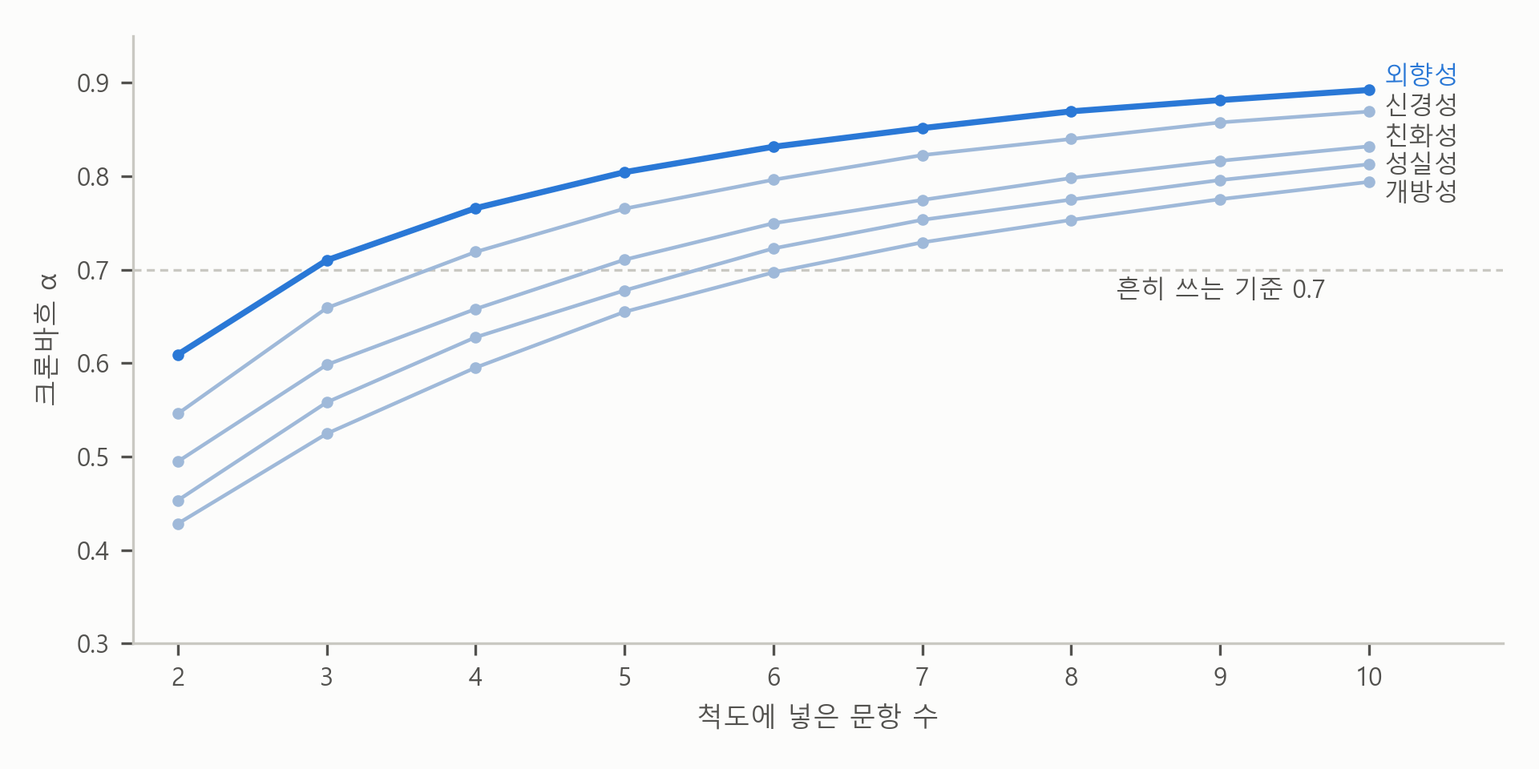
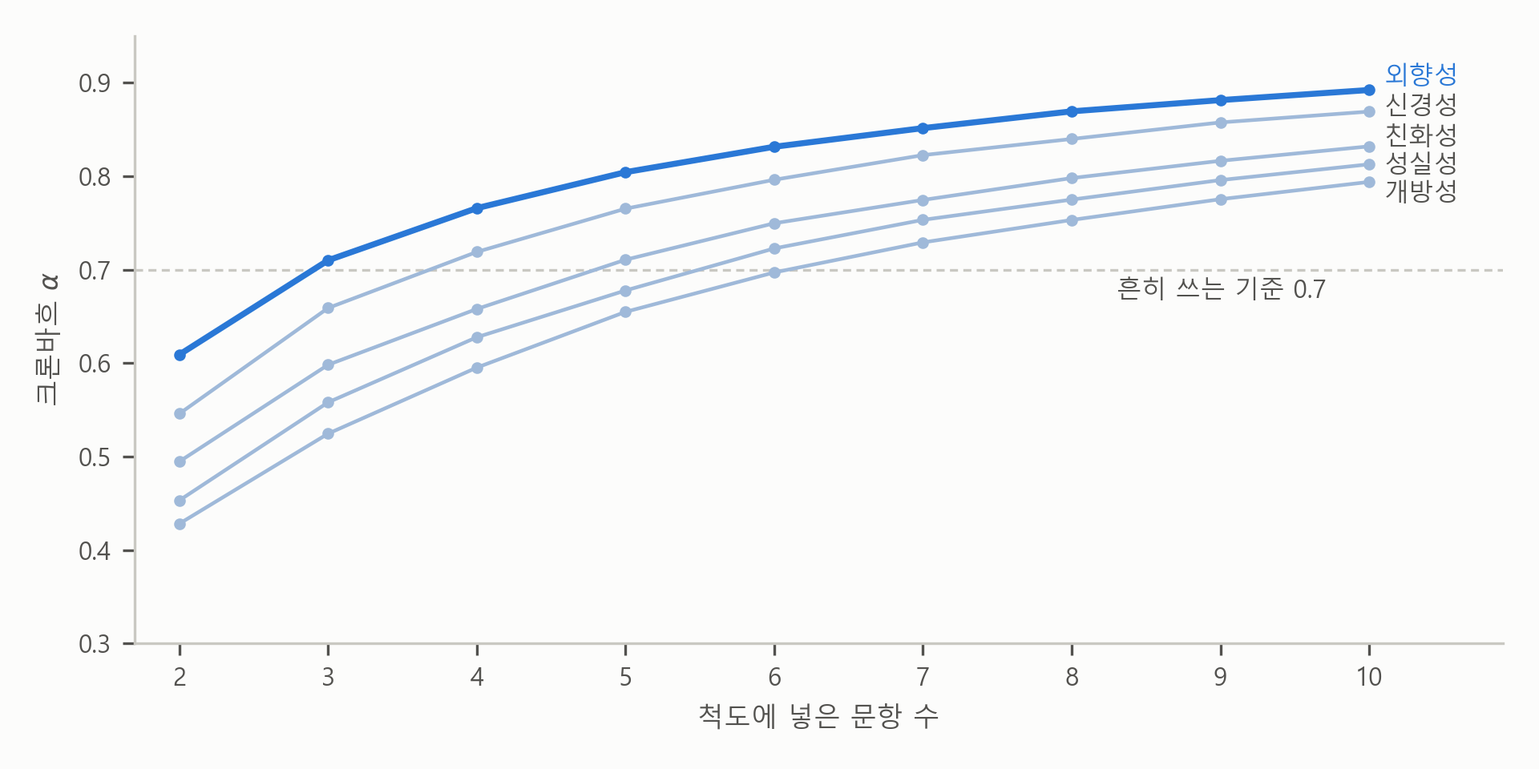
Survey measurement: typeset Cronbach's alpha as math and apply the author's review of section 1
Alpha now follows the book's rule for statistical symbols (as theta does in
the panel chapter): report, sections, section titles and the figure axis.
Section 1: English names for the five traits, the heatmap defined, Korea's
30 respondents, clearer opening questions and sample description.

diff --git a/survey-measurement/section-m3.md b/survey-measurement/section-m3.md
@@ -1,10 +1,10 @@
-# 3. 함께 움직이는가 — 크론바흐 α와 문항 수
+# 3. 함께 움직이는가 — 크론바흐 $\alpha$와 문항 수
 
 보고서의 요약은 이렇게 시작합니다.
 
-> 다섯 개의 성격 척도의 **신뢰도(크론바흐 α)는 0.79 ~ 0.89로, 흔히 쓰는 기준 0.7을 모두 넘는다**.
+> 다섯 개의 성격 척도의 **신뢰도(크론바흐 $\alpha$)는 0.79 ~ 0.89로, 흔히 쓰는 기준 0.7을 모두 넘는다**.
 
-해석에는 "외향성 0.89는 외향성 문항 하나에 외향적으로 답한 사람이 다른 외향성 문항에도 대개 외향적으로 답했다는 뜻이다"라는 설명이 붙어 있습니다. 설문 연구의 보고서에서 가장 자주 만나는 숫자가 이 크론바흐 α입니다. 미리 답부터 말하면, **크론바흐 α는 척도의 문항들이 얼마나 함께 움직이는지를 나타내는 숫자로, 1에 가까울수록 함께 움직인다는 뜻이고, 문항이 같은 것을 물을수록, 그리고 문항이 많을수록 커집니다.** 이 절에서는 α가 무엇을 계산한 숫자인지를 두 문항의 예로 먼저 보고, 문항 수에 따라 α가 어떻게 달라지는지, 기준 0.7은 어디서 왔는지, 그리고 α가 높아도 알 수 없는 것이 무엇인지를 차례로 봅니다.
+해석에는 "외향성 0.89는 외향성 문항 하나에 외향적으로 답한 사람이 다른 외향성 문항에도 대개 외향적으로 답했다는 뜻이다"라는 설명이 붙어 있습니다. 설문 연구의 보고서에서 가장 자주 만나는 숫자가 이 크론바흐 $\alpha$입니다. 미리 답부터 말하면, **크론바흐 $\alpha$는 척도의 문항들이 얼마나 함께 움직이는지를 나타내는 숫자로, 1에 가까울수록 함께 움직인다는 뜻이고, 문항이 같은 것을 물을수록, 그리고 문항이 많을수록 커집니다.** 이 절에서는 $\alpha$가 무엇을 계산한 숫자인지를 두 문항의 예로 먼저 보고, 문항 수에 따라 $\alpha$가 어떻게 달라지는지, 기준 0.7은 어디서 왔는지, 그리고 $\alpha$가 높아도 알 수 없는 것이 무엇인지를 차례로 봅니다.
 
 ## 같은 실력을 묻는 문제라면 함께 움직인다
 
@@ -12,7 +12,7 @@
 
 그런데 수학 시험지에 엉뚱하게 역사 문제가 몇 개 섞여 있다면 어떨까요? 역사 문제를 맞히는지는 수학 실력과 별 상관이 없으니, 역사 문제는 수학 문제들과 따로 움직입니다. 수학 문제와 역사 문제를 모두 더한 점수는 수학 실력도 역사 실력도 제대로 보여 주지 못합니다.
 
-설문 문항도 같습니다. 외향성 문항 10개가 모두 외향성을 묻는다면, 외향적인 사람은 대부분의 문항에 외향적으로 답하고 내향적인 사람은 대부분 내향적으로 답할 것입니다. 앞 절의 표 2-1에서 E1에 높게 답한 사람이 E3에도 높게 답한 것이 그 모습이었습니다. 크론바흐 α는 이렇게 **척도의 문항들이 얼마나 함께 움직이는지**를 숫자 하나로 요약합니다.
+설문 문항도 같습니다. 외향성 문항 10개가 모두 외향성을 묻는다면, 외향적인 사람은 대부분의 문항에 외향적으로 답하고 내향적인 사람은 대부분 내향적으로 답할 것입니다. 앞 절의 표 2-1에서 E1에 높게 답한 사람이 E3에도 높게 답한 것이 그 모습이었습니다. 크론바흐 $\alpha$는 이렇게 **척도의 문항들이 얼마나 함께 움직이는지**를 숫자 하나로 요약합니다.
 
 ## 두 문항을 더해 보면 — 합이 얼마나 넓게 퍼지나
 
@@ -24,26 +24,26 @@
 
 그림에서 보듯이 왼쪽 패널의 합은 2부터 10까지 넓게 퍼져 있습니다. 두 문항이 함께 움직이므로, E1에 5를 준 사람은 E3에도 높게 답해 합이 9나 10이 되기 쉽고, E1에 1을 준 사람은 E3에도 낮게 답해 합이 2나 3이 되기 쉽습니다. 높은 사람은 더 높게, 낮은 사람은 더 낮게 쌓입니다. 오른쪽 패널의 합은 5와 6 근처에 몰려 있습니다. E1에 5를 준 사람은 E2에 낮게 답하니 합이 가운데로 돌아오고, E1에 1을 준 사람은 E2에 높게 답하니 역시 가운데로 돌아옵니다. 두 문항이 서로 상쇄합니다. 앞 절에서 역문항을 뒤집지 않았을 때 모두가 보통 사람이 된 것과 같은 일입니다.
 
-그렇다면 비교의 기준은 무엇일까요? 두 문항이 서로 아무 관계 없이 따로 움직인다면, 합은 문항 하나하나가 퍼진 만큼을 더한 정도로만 퍼집니다. 함께 움직이면 그보다 넓게 퍼지고, 서로 거꾸로 움직이면 그보다 좁게 퍼집니다. **크론바흐 α**(Cronbach's alpha)는 바로 이 비교입니다. 합이 퍼진 정도를 문항들이 각자 퍼진 정도와 비교해서, 합이 얼마나 더 넓게 퍼졌는지를 숫자 하나로 나타냅니다.
+그렇다면 비교의 기준은 무엇일까요? 두 문항이 서로 아무 관계 없이 따로 움직인다면, 합은 문항 하나하나가 퍼진 만큼을 더한 정도로만 퍼집니다. 함께 움직이면 그보다 넓게 퍼지고, 서로 거꾸로 움직이면 그보다 좁게 퍼집니다. **크론바흐 $\alpha$**(Cronbach's alpha)는 바로 이 비교입니다. 합이 퍼진 정도를 문항들이 각자 퍼진 정도와 비교해서, 합이 얼마나 더 넓게 퍼졌는지를 숫자 하나로 나타냅니다.
 
-- 문항들이 서로 아무 관계 없이 따로 움직이면 α는 0입니다.
-- 문항들이 완벽하게 함께 움직여 누구나 모든 문항에 같은 답을 하면 α는 1입니다.
-- 문항들이 서로 거꾸로 움직이면 합이 오히려 좁게 퍼지고, α는 0보다 작은 음수가 됩니다.
+- 문항들이 서로 아무 관계 없이 따로 움직이면 $\alpha$는 0입니다.
+- 문항들이 완벽하게 함께 움직여 누구나 모든 문항에 같은 답을 하면 $\alpha$는 1입니다.
+- 문항들이 서로 거꾸로 움직이면 합이 오히려 좁게 퍼지고, $\alpha$는 0보다 작은 음수가 됩니다.
 
-그림 3-1의 두 경우를 계산하면 왼쪽(E1 + E3)은 0.64, 오른쪽(E1 + 뒤집지 않은 E2)은 −1.45입니다. E2를 뒤집어 더하면 0.59로 왼쪽과 비슷해집니다. 문항들이 같은 것을 일관되게 측정하는 정도를 **신뢰도**(reliability)라고 부르고, 크론바흐 α는 신뢰도를 나타내는 가장 흔한 숫자입니다. 이 이름은 이것을 정리한 교육심리학자 리 크론바흐(Lee Cronbach)의 이름에서 왔습니다.
+그림 3-1의 두 경우를 계산하면 왼쪽(E1 + E3)은 0.64, 오른쪽(E1 + 뒤집지 않은 E2)은 −1.45입니다. E2를 뒤집어 더하면 0.59로 왼쪽과 비슷해집니다. 문항들이 같은 것을 일관되게 측정하는 정도를 **신뢰도**(reliability)라고 부르고, 크론바흐 $\alpha$는 신뢰도를 나타내는 가장 흔한 숫자입니다. 이 이름은 이것을 정리한 교육심리학자 리 크론바흐(Lee Cronbach)의 이름에서 왔습니다.
 
 > **참고:**
-> 크론바흐 α의 식은 이렇습니다. $k$는 문항 수이고, 분산은 표준편차의 제곱으로 흩어짐의 크기를 나타냅니다.
+> 크론바흐 $\alpha$의 식은 이렇습니다. $k$는 문항 수이고, 분산은 표준편차의 제곱으로 흩어짐의 크기를 나타냅니다.
 >
 > $$\alpha = \frac{k}{k-1} \left( 1 - \frac{\text{문항마다의 분산을 더한 값}}{\text{합의 분산}} \right)$$
 >
-> 문항이 따로 움직이면 합의 분산이 문항 분산의 합과 같아져 괄호 안이 0이 되고, 함께 움직이면 합의 분산이 커져 괄호 안이 1에 가까워집니다. E1과 E3은 문항 분산의 합이 3.05, 합의 분산이 4.49라서 α = 2 × (1 − 3.05 / 4.49)이고, 계산해 보면 0.64입니다. 앞의 $k / (k-1)$은 완벽하게 함께 움직일 때 α가 꼭 1이 되도록 맞춰 주는 장치입니다.
+> 문항이 따로 움직이면 합의 분산이 문항 분산의 합과 같아져 괄호 안이 0이 되고, 함께 움직이면 합의 분산이 커져 괄호 안이 1에 가까워집니다. E1과 E3은 문항 분산의 합이 3.05, 합의 분산이 4.49라서 $\alpha$ = 2 × (1 − 3.05 / 4.49)이고, 계산해 보면 0.64입니다. 앞의 $k / (k-1)$은 완벽하게 함께 움직일 때 $\alpha$가 꼭 1이 되도록 맞춰 주는 장치입니다.
 
-## 뒤집지 않으면 α가 알려 준다
+## 뒤집지 않으면 $\alpha$가 알려 준다
 
-앞 절에서 역문항을 뒤집지 않으면 외향적인 사람과 내향적인 사람의 점수가 거의 같아지는데도, 평균만 보아서는 그 실수가 드러나지 않는다고 했습니다. 크론바흐 α는 그 실수를 숫자로 보여 줍니다. 표 3-1은 다섯 척도의 α를 역문항을 뒤집기 전과 뒤로 나란히 놓은 것입니다.
+앞 절에서 역문항을 뒤집지 않으면 외향적인 사람과 내향적인 사람의 점수가 거의 같아지는데도, 평균만 보아서는 그 실수가 드러나지 않는다고 했습니다. 크론바흐 $\alpha$는 그 실수를 숫자로 보여 줍니다. 표 3-1은 다섯 척도의 $\alpha$를 역문항을 뒤집기 전과 뒤로 나란히 놓은 것입니다.
 
-**표 3-1.** 역문항을 뒤집기 전과 뒤의 크론바흐 α
+**표 3-1.** 역문항을 뒤집기 전과 뒤의 크론바흐 $\alpha$
 
 | 척도 | 역문항 | 뒤집기 전 | 뒤집은 뒤 |
 |---|---|---|---|
@@ -55,43 +55,43 @@
 
 주: 50문항 모두 답한 19,718명. 척도마다 10문항.
 
-표에서 보듯이 뒤집기 전의 α는 외향성 −0.40, 친화성 −0.03처럼 0 근처이거나 음수입니다. 역문항이 정문항과 거꾸로 움직이니 합이 좁게 퍼지고, α가 그것을 그대로 보여 준 것입니다. 역문항이 절반인 외향성이 가장 낮습니다. α가 0 근처나 음수로 나오면, 문항이 엉뚱한 것을 묻고 있거나 역문항을 뒤집지 않은 것을 먼저 의심해 볼 만합니다.
+표에서 보듯이 뒤집기 전의 $\alpha$는 외향성 −0.40, 친화성 −0.03처럼 0 근처이거나 음수입니다. 역문항이 정문항과 거꾸로 움직이니 합이 좁게 퍼지고, $\alpha$가 그것을 그대로 보여 준 것입니다. 역문항이 절반인 외향성이 가장 낮습니다. $\alpha$가 0 근처나 음수로 나오면, 문항이 엉뚱한 것을 묻고 있거나 역문항을 뒤집지 않은 것을 먼저 의심해 볼 만합니다.
 
-그런데 신경성을 보면 조심할 점이 하나 있습니다. 역문항이 두 개뿐이라, 뒤집지 않아도 α가 0.71로 기준 0.7을 넘습니다. 기준을 넘었는지만 확인하면 이 실수를 놓칩니다. 역문항을 제대로 뒤집었는지는 α가 아니라 채점 키로 확인해야 합니다.
+그런데 신경성을 보면 조심할 점이 하나 있습니다. 역문항이 두 개뿐이라, 뒤집지 않아도 $\alpha$가 0.71로 기준 0.7을 넘습니다. 기준을 넘었는지만 확인하면 이 실수를 놓칩니다. 역문항을 제대로 뒤집었는지는 $\alpha$가 아니라 채점 키로 확인해야 합니다.
 
 ## 문항이 많을수록 — 운이 상쇄된다
 
-크론바흐 α를 키우는 것은 문항끼리 함께 움직이는 정도만이 아닙니다. 문항의 수도 α를 키웁니다. 그림 3-2는 다섯 척도마다 10문항 가운데 몇 개만 골라 척도를 만들었을 때의 α입니다. 같은 수의 문항을 고르는 방법이 여러 가지라, 무작위로 300번 골라 평균했습니다.
+크론바흐 $\alpha$를 키우는 것은 문항끼리 함께 움직이는 정도만이 아닙니다. 문항의 수도 $\alpha$를 키웁니다. 그림 3-2는 다섯 척도마다 10문항 가운데 몇 개만 골라 척도를 만들었을 때의 $\alpha$입니다. 같은 수의 문항을 고르는 방법이 여러 가지라, 무작위로 300번 골라 평균했습니다.
 
 ![문항 수와 크론바흐 α](fig_m3_2_items_alpha.png)
 
-**그림 3-2.** 척도에 넣은 문항 수와 크론바흐 α. 척도마다 10문항 가운데 그 수만큼 무작위로 300번 골라 평균했다(10문항은 보고서의 α).
+**그림 3-2.** 척도에 넣은 문항 수와 크론바흐 $\alpha$. 척도마다 10문항 가운데 그 수만큼 무작위로 300번 골라 평균했다(10문항은 보고서의 $\alpha$).
 
-그림에서 보듯이 다섯 선이 모두 오른쪽으로 갈수록 올라갑니다. 외향성은 문항 2개로 만들면 α가 0.61이고, 3개면 0.71, 5개면 0.80, 10개면 0.89입니다. 같은 외향성 문항인데 개수만 늘려도 α가 커집니다.
+그림에서 보듯이 다섯 선이 모두 오른쪽으로 갈수록 올라갑니다. 외향성은 문항 2개로 만들면 $\alpha$가 0.61이고, 3개면 0.71, 5개면 0.80, 10개면 0.89입니다. 같은 외향성 문항인데 개수만 늘려도 $\alpha$가 커집니다.
 
 시험으로 생각하면 자연스럽습니다. 문제 하나에는 찍어서 맞히거나 실수로 틀리는 운이 들어 있습니다. 문제가 두 개면 두 문제의 운이 한쪽으로 몰릴 수도 있지만, 열 개가 되면 운이 이 문제에서는 득이 되고 저 문제에서는 손해가 되어 서로 상쇄됩니다. 운이 상쇄될수록 점수는 실력을 더 일관되게 보여 줍니다. 설문 문항도 문장을 오해하거나 그날 기분에 따라 답한 몫이 문항마다 다르게 들어 있어서, 문항이 많을수록 그 몫이 서로 상쇄됩니다.
 
-그림에서 하나 더 볼 것은 선이 올라가는 폭이 점점 줄어든다는 점입니다. 외향성은 2개에서 3개로 늘릴 때 0.10이 오르지만, 9개에서 10개로 늘릴 때는 0.01이 오릅니다. 문항을 늘리면 α는 오르지만, 설문이 길어지면 답하는 사람이 지쳐 대충 답하기 쉽다고 흔히 말합니다. 그래서 설문을 만드는 사람은 문항 수와 α 사이에서 적당한 선을 찾습니다.
+그림에서 하나 더 볼 것은 선이 올라가는 폭이 점점 줄어든다는 점입니다. 외향성은 2개에서 3개로 늘릴 때 0.10이 오르지만, 9개에서 10개로 늘릴 때는 0.01이 오릅니다. 문항을 늘리면 $\alpha$는 오르지만, 설문이 길어지면 답하는 사람이 지쳐 대충 답하기 쉽다고 흔히 말합니다. 그래서 설문을 만드는 사람은 문항 수와 $\alpha$ 사이에서 적당한 선을 찾습니다.
 
-반대로 이 그림은 문항이 적은 척도의 α가 낮게 나오기 쉽다는 것도 보여 줍니다. 개방성은 5문항이면 0.65로 기준 0.7에 못 미칩니다. 문항 2 ~ 3개짜리 척도의 α가 0.6대라면 문항이 나빠서라기보다 문항이 적어서일 수 있습니다. 거꾸로 α가 아주 높을 때도 한 번 생각해 볼 것이 있습니다. 문항이 많기만 해도 α는 오르고, 거의 같은 문장을 말만 바꿔 여러 번 물어도 α는 오릅니다. 그런 척도는 일관되게 답해지지만, 개념의 좁은 한 면만 되풀이해 묻고 있을 수 있습니다.
+반대로 이 그림은 문항이 적은 척도의 $\alpha$가 낮게 나오기 쉽다는 것도 보여 줍니다. 개방성은 5문항이면 0.65로 기준 0.7에 못 미칩니다. 문항 2 ~ 3개짜리 척도의 $\alpha$가 0.6대라면 문항이 나빠서라기보다 문항이 적어서일 수 있습니다. 거꾸로 $\alpha$가 아주 높을 때도 한 번 생각해 볼 것이 있습니다. 문항이 많기만 해도 $\alpha$는 오르고, 거의 같은 문장을 말만 바꿔 여러 번 물어도 $\alpha$는 오릅니다. 그런 척도는 일관되게 답해지지만, 개념의 좁은 한 면만 되풀이해 묻고 있을 수 있습니다.
 
 ## 기준 0.7은 어디서 왔나
 
-보고서는 α가 "흔히 쓰는 기준 0.7"을 넘는다고 썼습니다. 0.7은 설문 연구에서 가장 널리 쓰이는 기준이지만, 0.7에서 무언가가 갑자기 바뀌는 이론적인 경계가 있는 것은 아닙니다. 관행입니다.
+보고서는 $\alpha$가 "흔히 쓰는 기준 0.7"을 넘는다고 썼습니다. 0.7은 설문 연구에서 가장 널리 쓰이는 기준이지만, 0.7에서 무언가가 갑자기 바뀌는 이론적인 경계가 있는 것은 아닙니다. 관행입니다.
 
 이 기준의 출처로는 흔히 심리측정학자 넌널리(Nunnally)의 1978년 교과서가 인용됩니다. 그런데 이 교과서가 말한 것은 연구의 초기 단계라면 0.7 정도로도 충분하다는 것이었고, 모든 연구가 넘어야 할 최소 기준이라는 뜻은 아니었다는 지적이 있습니다(Lance 외, 2006)[^lance]. 출처의 말이 옮겨지는 동안 "0.7을 넘으면 된다"로 굳은 셈입니다.
 
-그러니 보고서의 α를 볼 때는 이렇게 생각하면 됩니다. 0.7을 넘었다는 것은 문항들이 대체로 함께 움직인다는 뜻이지, 측정에 문제가 없다는 보증은 아닙니다. 0.7에 조금 못 미친다고 해서 척도를 버릴 일도 아닙니다. 문항이 몇 개인지, 다른 연구에서 같은 척도의 α가 얼마였는지를 함께 봅니다. 이 장의 다섯 척도는 문항이 10개씩이고 α가 0.79 ~ 0.89이니, 문항들이 꽤 일관되게 답해졌다고 말할 수 있습니다.
+그러니 보고서의 $\alpha$를 볼 때는 이렇게 생각하면 됩니다. 0.7을 넘었다는 것은 문항들이 대체로 함께 움직인다는 뜻이지, 측정에 문제가 없다는 보증은 아닙니다. 0.7에 조금 못 미친다고 해서 척도를 버릴 일도 아닙니다. 문항이 몇 개인지, 다른 연구에서 같은 척도의 $\alpha$가 얼마였는지를 함께 봅니다. 이 장의 다섯 척도는 문항이 10개씩이고 $\alpha$가 0.79 ~ 0.89이니, 문항들이 꽤 일관되게 답해졌다고 말할 수 있습니다.
 
 [^lance]: Lance, C. E., Butts, M. M., & Michels, L. C. (2006). The sources of four commonly reported cutoff criteria: What did they really say? *Organizational Research Methods*, 9(2), 202–220. 신뢰도 0.70 기준의 출처로 인용되는 Nunnally (1978) *Psychometric Theory*(2판)는 연구의 초기 단계에서는 0.70 이상이면 충분하다고 썼다(245쪽).
 
 ## 문항 하나를 빼면
 
-보고서에는 없지만, 설문 분석을 맡기면 AI가 문항마다 "그 문항을 빼면 α가 얼마가 되는가"를 함께 보여 주는 경우가 많습니다. 다른 문항들과 잘 함께 움직이지 않는 문항이 있다면, 그 문항을 빼면 α가 오히려 오르기 때문입니다. 이 장의 50문항 가운데 빼면 α가 오르는 문항은 네 개였고, 표 3-2가 그 네 문항입니다.
+보고서에는 없지만, 설문 분석을 맡기면 AI가 문항마다 "그 문항을 빼면 $\alpha$가 얼마가 되는가"를 함께 보여 주는 경우가 많습니다. 다른 문항들과 잘 함께 움직이지 않는 문항이 있다면, 그 문항을 빼면 $\alpha$가 오히려 오르기 때문입니다. 이 장의 50문항 가운데 빼면 $\alpha$가 오르는 문항은 네 개였고, 표 3-2가 그 네 문항입니다.
 
-**표 3-2.** 빼면 크론바흐 α가 오르는 문항
+**표 3-2.** 빼면 크론바흐 $\alpha$가 오르는 문항
 
-| 척도 | 문항 | 10문항의 α | 그 문항을 뺀 9문항의 α |
+| 척도 | 문항 | 10문항의 $\alpha$ | 그 문항을 뺀 9문항의 $\alpha$ |
 |---|---|---|---|
 | 신경성 | N4 "나는 기분이 가라앉는 일이 드물다" | 0.869 | 0.875 |
 | 친화성 | A1 "나는 다른 사람을 별로 걱정하지 않는다" | 0.832 | 0.833 |
@@ -100,7 +100,7 @@
 
 주: 50문항 모두 답한 19,718명. A1, A3, N4는 역문항(뒤집은 답으로 계산).
 
-표에서 보듯이 네 문항 모두 빼도 α는 0.001 ~ 0.006 오를 뿐입니다. N4와 O9는 다음 절의 요인분석에서도 약한 문항으로 나옵니다. 이 정도 차이라면 문항을 뺄 까닭이 없습니다. 이미 널리 쓰이는 척도에서 문항을 빼면 척도의 뜻이 조금 달라지고, 같은 척도를 쓴 다른 연구와 숫자를 비교하기도 어려워집니다. 문항을 빼는 것은 α가 크게 오르고, 그 문항의 문장에도 문제가 있어 보일 때(예를 들어 번역이 어색하거나 응답자가 다르게 이해했을 때) 생각할 일입니다.
+표에서 보듯이 네 문항 모두 빼도 $\alpha$는 0.001 ~ 0.006 오를 뿐입니다. N4와 O9는 다음 절의 요인분석에서도 약한 문항으로 나옵니다. 이 정도 차이라면 문항을 뺄 까닭이 없습니다. 이미 널리 쓰이는 척도에서 문항을 빼면 척도의 뜻이 조금 달라지고, 같은 척도를 쓴 다른 연구와 숫자를 비교하기도 어려워집니다. 문항을 빼는 것은 $\alpha$가 크게 오르고, 그 문항의 문장에도 문제가 있어 보일 때(예를 들어 번역이 어색하거나 응답자가 다르게 이해했을 때) 생각할 일입니다.
 
 같은 목적으로 쓰는 숫자가 하나 더 있습니다. 한 문항과 나머지 문항들의 합이 얼마나 함께 움직이는지를 나타내는 **문항-나머지 상관**(corrected item-total correlation)입니다. 이 숫자가 유난히 낮은 문항은 다른 문항들과 따로 움직이는 문항이고, 음수라면 역문항을 뒤집지 않았을 가능성이 큽니다.
 
@@ -112,12 +112,12 @@
 
 > 두 결과는 응답자들이 같은 성격을 묻는 문항들에 일관되게 답했다는 뜻이다. 척도가 실제 성격을 맞게 측정하는지는 이 분석으로 알 수 없다.
 
-늘 2kg 더 나오는 체중계를 생각해 보세요. 같은 사람이 몇 번을 올라가도 매번 같은 숫자가 나오니 일관됩니다. 하지만 그 숫자는 실제 몸무게가 아닙니다. 일관되게 측정하는 것과 맞는 것을 측정하는 것은 다른 일입니다. 크론바흐 α가 말해 주는 것은 앞의 것뿐입니다. 측정하려던 것을 제대로 측정하는지를 **타당도**(validity)라고 부릅니다.
+늘 2kg 더 나오는 체중계를 생각해 보세요. 같은 사람이 몇 번을 올라가도 매번 같은 숫자가 나오니 일관됩니다. 하지만 그 숫자는 실제 몸무게가 아닙니다. 일관되게 측정하는 것과 맞는 것을 측정하는 것은 다른 일입니다. 크론바흐 $\alpha$가 말해 주는 것은 앞의 것뿐입니다. 측정하려던 것을 제대로 측정하는지를 **타당도**(validity)라고 부릅니다.
 
 외향성 척도의 타당도를 따지려면 문항들끼리의 관계가 아니라 척도 밖의 무언가와 비교해야 합니다. 외향성 점수가 높은 사람이 실제로 모임에 자주 나가는지, 친구가 평가한 외향성과 비슷한지, 이미 타당도가 확인된 다른 외향성 검사와 점수가 비슷한지 같은 것입니다. 이 장의 자료에는 그런 변수가 없어서, 보고서는 한계의 둘째 줄에 "외향성 점수가 높은 사람이 실제로도 외향적인지는 이 자료로 알 수 없다"고 적었습니다. 여러분이 설문 연구를 할 때 이미 널리 쓰이는 척도를 가져오면 좋은 이유가 여기에도 있습니다. 그런 척도는 다른 연구들이 타당도를 이미 확인해 둔 경우가 많습니다.
 
 > **요약 — 이 절의 물음과 답**
 >
-> - **크론바흐 α는 무엇을 계산한 숫자인가?** 척도의 문항들이 얼마나 함께 움직이는지를 나타내는 신뢰도로, 1에 가까울수록 함께 움직인다는 뜻이다. 문항들의 합이, 문항이 따로 움직일 때보다 얼마나 더 넓게 퍼지는지를 본다. 역문항을 뒤집지 않으면 합이 좁게 몰려 α가 0 근처나 음수가 된다.
-> - **왜 문항이 많을수록 α가 커지나?** 문항마다 들어 있는 운이 문항이 많을수록 서로 상쇄되기 때문이다. 외향성은 2문항이면 0.61, 10문항이면 0.89다. 그래서 문항이 적은 척도는 α가 낮게 나오기 쉽다.
-> - **α가 0.7을 넘으면 측정이 잘된 것인가?** 0.7은 관행일 뿐이고, α가 말해 주는 것은 응답자들이 문항들에 일관되게 답했다는 것까지다. 척도가 측정하려던 것을 맞게 측정하는지(타당도)는 척도 밖의 자료와 비교해야 알 수 있다.
+> - **크론바흐 $\alpha$는 무엇을 계산한 숫자인가?** 척도의 문항들이 얼마나 함께 움직이는지를 나타내는 신뢰도로, 1에 가까울수록 함께 움직인다는 뜻이다. 문항들의 합이, 문항이 따로 움직일 때보다 얼마나 더 넓게 퍼지는지를 본다. 역문항을 뒤집지 않으면 합이 좁게 몰려 $\alpha$가 0 근처나 음수가 된다.
+> - **왜 문항이 많을수록 $\alpha$가 커지나?** 문항마다 들어 있는 운이 문항이 많을수록 서로 상쇄되기 때문이다. 외향성은 2문항이면 0.61, 10문항이면 0.89다. 그래서 문항이 적은 척도는 $\alpha$가 낮게 나오기 쉽다.
+> - **$\alpha$가 0.7을 넘으면 측정이 잘된 것인가?** 0.7은 관행일 뿐이고, $\alpha$가 말해 주는 것은 응답자들이 문항들에 일관되게 답했다는 것까지다. 척도가 측정하려던 것을 맞게 측정하는지(타당도)는 척도 밖의 자료와 비교해야 알 수 있다.

diff --git a/survey-measurement/section-m1.md b/survey-measurement/section-m1.md
@@ -1,14 +1,14 @@
 # 1. 보고서 — 성격 검사 50문항은 다섯 성격을 일관되게 측정하나
 
-이번 장의 주제는 **설문으로 측정하기**입니다. 만족도, 외향성, 직무 몰입, 브랜드 신뢰처럼 자를 대거나 개수를 셀 수 없는 개념을 설문 문항 여러 개로 측정하고, 그 측정을 믿을 수 있는지 확인하는 방법입니다. 연구 논문이나 수업 과제로 설문조사를 하는 학생이 많습니다. 경영학, 심리학, 사회학, 교육학의 설문 연구는 대개 이 단계를 거친 뒤에 회귀분석으로 넘어갑니다. 기업도 같은 일을 합니다. 고객 만족도 조사, 직원 몰입도 조사, 입사 지원자의 인성 검사가 모두 문항 여러 개로 보이지 않는 것을 측정합니다. 이런 연구의 보고서에는 흔히 "크론바흐 α = 0.87", "요인 적재값 0.4 이상" 같은 표현이 나옵니다.
+이번 장의 주제는 **설문으로 측정하기**입니다. 만족도, 외향성, 직무 몰입, 브랜드 신뢰처럼 자를 대거나 개수를 셀 수 없는 개념을 설문 문항 여러 개로 측정하고, 그 측정을 믿을 수 있는지 확인하는 방법입니다. 연구 논문이나 수업 과제로 설문조사를 하는 학생이 많습니다. 경영학, 심리학, 사회학, 교육학의 설문 연구는 대개 이 단계를 거친 뒤에 회귀분석으로 넘어갑니다. 기업도 같은 일을 합니다. 고객 만족도 조사, 직원 몰입도 조사, 입사 지원자의 인성 검사가 모두 문항 여러 개로 보이지 않는 것을 측정합니다. 이런 연구의 보고서에는 흔히 "크론바흐 $\alpha$ = 0.87", "요인 적재값 0.4 이상" 같은 표현이 나옵니다.
 
-다른 장은 한 변수가 다른 변수와 어떤 관계인지를 물었습니다. 이번 장은 그 앞 단계를 묻습니다. 회귀식에 넣을 변수 하나를 문항 여러 개로 어떻게 만드는가, 그렇게 만든 변수를 믿어도 되는가 하는 질문입니다. 이번 장의 예시는 성격 검사입니다. 문항 10개의 답으로 한 사람의 외향성을 측정하는 예입니다.
+이번 장이 묻는 것은 두 가지입니다. 설문 문항 여러 개로 변수 하나를 어떻게 만드는가, 그리고 그렇게 만든 변수를 믿어도 되는가입니다. 이번 장의 예시는 성격 검사입니다. 문항 10개의 답으로 한 사람의 외향성을 측정하는 예입니다.
 
 ## 데이터 — 온라인 성격 검사 19,718명
 
 자료는 Open Psychometrics Project라는 사이트의 공개 원자료입니다. 이 사이트는 누구나 무료로 해 볼 수 있는 성격 검사를 운영하면서, 응답자의 동의를 받아 답을 연구용으로 공개해 왔습니다. 이번 장의 자료는 2012년 무렵 그 사이트의 성격 검사에 답한 사람들의 기록이고, 사이트의 원자료 목록(openpsychometrics.org/_rawdata/)에서 BIG5.zip이라는 파일로 받을 수 있습니다. 2026년 10월 17일에 받았습니다. 이 자료에는 재배포를 허락하는 명시적인 이용 조건이 없어서, 이 책의 사이트에서는 파일을 함께 제공하지 않습니다. 원 사이트에서 직접 받으면 되고, 이 장 끝의 직접 해 보기 노트북도 원 사이트에서 바로 읽어 옵니다. 내려받는 일도 AI에게 부탁할 수 있습니다.
 
-검사는 성격을 다섯 가지로 나눠 측정합니다. 외향성, 신경성(걱정이나 불안을 쉽게 느끼는 정도), 친화성, 성실성, 개방성(새로운 생각과 경험을 좋아하는 정도)입니다. 심리학에서 흔히 쓰는 이 다섯 가지 구분을 **빅 파이브**(Big Five)라고 부릅니다. 문항은 IPIP(International Personality Item Pool)라는, 누구나 쓸 수 있게 공개된 문항 모음에서 왔습니다. 성격마다 10문항, 모두 50문항입니다. 표 1-1은 외향성의 10문항입니다(원래는 영어 문장이고, 우리말 번역은 이 책이 했습니다).
+검사는 성격을 다섯 가지로 나눠 측정합니다. 외향성(extraversion), 신경성(neuroticism), 친화성(agreeableness), 성실성(conscientiousness), 개방성(openness)입니다. 심리학에서 흔히 쓰는 이 다섯 가지 구분을 **빅 파이브**(Big Five)라고 부릅니다. 신경성은 걱정이나 불안을 쉽게 느끼는 정도이고, 개방성은 새로운 생각과 경험을 좋아하는 정도입니다. 문항은 IPIP(International Personality Item Pool)라는, 누구나 쓸 수 있게 공개된 문항 모음에서 왔습니다. 성격마다 10문항, 모두 50문항입니다. 50문항을 모두 싣지는 않고, 표 1-1에 외향성의 10문항만 예로 보입니다(원래는 영어 문장이고, 우리말 번역은 이 책이 했습니다). 50문항 전체는 이 장 끝의 직접 해 보기 노트북에 있습니다.
 
 **표 1-1.** 외향성 10문항
 
@@ -25,24 +25,24 @@
 | E9 | 나는 관심의 한가운데에 있어도 괜찮다. |
 | E10 | 나는 낯선 사람 앞에서 조용하다. |
 
-응답자는 문항마다 자기에게 얼마나 맞는지를 1부터 5까지의 숫자로 답했습니다. 1은 "동의하지 않음", 3은 "보통", 5는 "동의"입니다. 이렇게 문장 하나를 주고 동의하는 정도를 몇 단계로 고르게 하는 방식을 흔히 **리커트 척도**(Likert scale)라고 부릅니다. 이 방식을 처음 쓴 심리학자의 이름을 땄습니다. 5점이나 7점이 가장 흔하고, 여러분이 받아 본 설문의 "전혀 그렇지 않다 ~ 매우 그렇다"도 리커트 척도입니다.
+응답자는 문항마다 자기에게 얼마나 맞는지를 1부터 5까지의 숫자로 답했습니다. 1은 "동의하지 않음", 3은 "보통", 5는 "동의"입니다. 이렇게 문장 하나를 주고 동의하는 정도를 몇 단계로 고르게 하는 방식을 흔히 **리커트 척도**(Likert scale)라고 부릅니다. 우리말 설문에서 자주 보는 "전혀 그렇지 않다, 그렇지 않다, 보통이다, 그렇다, 매우 그렇다"의 다섯 칸이 바로 이 방식입니다. 이름은 이 방식을 처음 쓴 심리학자에게서 왔고, 5점이나 7점이 가장 흔합니다.
 
-표를 천천히 읽어 보면 이상한 점이 하나 보입니다. E1, E3, E5는 외향적인 사람이 "동의"할 문장인데, E2, E4, E6은 거꾸로 내향적인 사람이 "동의"할 문장입니다. 같은 외향성을 측정하는 문항인데 방향이 반대입니다. 이런 문항을 역문항이라고 하는데, 왜 이렇게 만드는지와 분석할 때 무엇을 해야 하는지는 다음 절에서 다룹니다.
+표를 천천히 읽어 보면 이상한 점이 하나 보입니다. E1, E3, E5는 외향적인 사람이 "동의"할 문장인데, E2, E4, E6은 거꾸로 내향적인 사람이 "동의"할 문장입니다. 같은 외향성을 측정하는 문항인데 방향이 반대입니다. 이런 문항을 **역문항**(reverse-coded item)이라고 하는데, 왜 이렇게 만드는지와 분석할 때 무엇을 해야 하는지는 다음 절에서 다룹니다.
 
-받은 파일은 한 행이 응답자 한 명입니다. 변수는 57개입니다.
+받은 파일에서 한 행은 응답자 한 명이고, 변수는 57개입니다.
 
 - **E1 ~ E10, N1 ~ N10, A1 ~ A10, C1 ~ C10, O1 ~ O10**: 50문항의 답(1 ~ 5, 답하지 않은 문항은 0). 앞 글자가 성격입니다(E 외향성, N 신경성, A 친화성, C 성실성, O 개방성).
 - **age, gender, country** 등 7개: 나이, 성별, 접속한 나라, 영어가 모국어인지, 어느 손으로 글씨를 쓰는지, 인종, 사이트에 들어온 경로
 
-응답자는 19,719명이고, 이 가운데 50문항에 모두 답한 19,718명을 분석합니다. 접속한 나라는 미국이 8,753명으로 가장 많고 영국, 인도가 뒤를 잇습니다. 여성이 61%, 중위 나이는 22세입니다. 조사하는 쪽이 대상을 정해 뽑은 표본이 아니라 검사 사이트를 스스로 찾아온 사람들이라는 점은 기억해 둘 만합니다.
+응답자는 19,719명이고, 이 가운데 50문항에 모두 답한 19,718명을 분석합니다. 접속한 나라는 미국이 8,753명으로 가장 많고 영국, 인도가 뒤를 잇습니다. 한국에서 접속한 사람은 30명으로, 나라 가운데 50번째입니다. 여성이 61%, 중위 나이는 22세입니다. 조사하는 쪽이 대상을 정해 뽑은 표본이 아니라 검사 사이트를 스스로 찾아온 사람들이라는 점은 기억해 둘 만합니다.
 
 ## 문항 10개로 외향성을 측정할 수 있을까
 
 자, 이제 질문입니다. **문항 10개에 답한 것으로 한 사람의 외향성을 측정할 수 있을까요?**
 
-외향성은 키나 몸무게처럼 자로, 저울로 측정할 수 있는 것이 아닙니다. 우리가 볼 수 있는 것은 "나는 먼저 말을 건다"에 4점을 줬다는 답뿐입니다. 그 4점에는 그 사람의 외향성도 들어 있지만, 문장을 어떻게 받아들였는지, 그날 기분이 어땠는지, 대충 찍었는지도 들어 있습니다. 그래서 설문 연구는 문항 하나만 쓰지 않고 같은 것을 묻는 문항을 여러 개 둡니다. 그렇다면 확인할 것이 생깁니다. **그 문항들이 정말 같은 것을 묻고 있는가, 문항 50개가 정말 성격 다섯 가지로 나뉘는가**입니다. 이것을 확인하는 것이 이번 장의 일입니다.
+외향성은 키나 몸무게처럼 자로, 저울로 측정할 수 있는 것이 아닙니다. 우리가 볼 수 있는 것은 "나는 먼저 말을 건다"에 4점을 줬다는 답뿐입니다. 그 4점에는 그 사람의 외향성도 들어 있지만, 문장을 어떻게 받아들였는지, 그날 기분이 어땠는지, 대충 찍었는지도 들어 있습니다. 그래서 설문 연구는 문항 하나만 쓰지 않고 같은 것을 묻는 문항을 여러 개 둡니다. 그렇다면 확인할 것이 생깁니다. **그 문항들이 정말 같은 것을 묻고 있는가, 응답자들의 답에서도 문항 50개가 성격별로 다섯 묶음으로 나뉘는가**입니다. 이것을 확인하는 것이 이번 장의 일입니다.
 
-이 질문을 AI에게 맡겨 봤습니다. AI가 이 장의 자료 파일을 열어 분석하게 하고, 거꾸로 묻는 문항의 답을 뒤집은 뒤 다섯 개의 성격 척도의 신뢰도와 요인분석 결과를 정리한 1쪽 보고서를 요청했습니다. 그렇게 받은 보고서가 아래에 있습니다. 먼저 한 번 읽어 보세요. 크론바흐 α, 요인 적재값, 베리맥스 회전처럼 처음 보는 말이 나와도 괜찮습니다. 이 장을 마치면 그 말들을 모두 이해할 수 있습니다.
+이 질문을 AI에게 맡겨 봤습니다. AI가 이 장의 자료 파일을 열어 분석하게 하고, 거꾸로 묻는 문항의 답을 뒤집은 뒤 다섯 개의 성격 척도의 신뢰도와 요인분석 결과를 정리한 1쪽 보고서를 요청했습니다. 그렇게 받은 보고서가 아래에 있습니다. 먼저 한 번 읽어 보세요. 크론바흐 $\alpha$, 요인 적재값, 베리맥스 회전처럼 처음 보는 말이 나와도 괜찮습니다. 이 장을 마치면 그 말들을 모두 이해할 수 있습니다.
 
 ::::{container} report-box
 
@@ -58,7 +58,7 @@
 :class: report-h2
 ```
 
-- 다섯 개의 성격 척도의 **신뢰도(크론바흐 α)는 0.79 ~ 0.89로, 흔히 쓰는 기준 0.7을 모두 넘는다**.
+- 다섯 개의 성격 척도의 **신뢰도(크론바흐 $\alpha$)는 0.79 ~ 0.89로, 흔히 쓰는 기준 0.7을 모두 넘는다**.
 - 50문항으로 요인분석을 하면 **모든 문항이 자기 성격의 요인에 가장 크게 실려, 문항이 성격별로 다섯 묶음으로 나뉜다**.
 - 두 결과는 응답자들이 같은 성격을 묻는 문항들에 일관되게 답했다는 뜻이다. 척도가 실제 성격을 맞게 측정하는지는 이 분석으로 알 수 없다.
 
@@ -66,7 +66,7 @@
 :class: report-h2
 ```
 
-| 척도 | 문항 수 | 역문항 수 | 크론바흐 α | 척도 점수 평균 | 표준편차 |
+| 척도 | 문항 수 | 역문항 수 | 크론바흐 $\alpha$ | 척도 점수 평균 | 표준편차 |
 |---|---|---|---|---|---|
 | 외향성 | 10 | 5 | 0.89 | 3.01 | 0.92 |
 | 신경성 | 10 | 2 | 0.87 | 3.10 | 0.86 |
@@ -91,7 +91,7 @@
 :class: report-h2
 ```
 
-- **크론바흐 α** — 같은 척도의 문항끼리 함께 움직일수록 1에 가까워진다. 외향성 0.89는 외향성 문항 하나에 외향적으로 답한 사람이 다른 외향성 문항에도 대개 외향적으로 답했다는 뜻이다(역문항은 뒤집은 답으로).
+- **크론바흐 $\alpha$** — 같은 척도의 문항끼리 함께 움직일수록 1에 가까워진다. 외향성 0.89는 외향성 문항 하나에 외향적으로 답한 사람이 다른 외향성 문항에도 대개 외향적으로 답했다는 뜻이다(역문항은 뒤집은 답으로).
 - **요인 적재값** — 문항이 어느 요인과 함께 움직이는지를 보여 준다. 그림에서 진한 칸이 대각선 위에 다섯 묶음으로 모여 있다. 요인 수만 다섯으로 정해 주고 문항이 어느 성격인지는 알려 주지 않았는데, 자료가 문항을 성격별로 묶었다.
 
 ```{rubric} 한계
@@ -114,18 +114,18 @@
 
 **요약**은 세 줄입니다. 첫 줄은 다섯 척도의 신뢰도가 모두 0.79 ~ 0.89로 흔히 쓰는 기준 0.7을 넘는다는 것이고, 둘째 줄은 요인분석에서 50문항이 성격별로 다섯 묶음으로 나뉜다는 것입니다. 셋째 줄은 이 두 결과가 말하지 않는 것을 적었습니다. 응답자들이 문항들에 일관되게 답했다는 것과, 척도가 실제 성격을 맞게 측정한다는 것은 다른 이야기라는 것입니다.
 
-**신뢰도와 척도 점수**의 표는 척도 하나가 한 행입니다. 열은 문항 수, 그 가운데 역문항 수, 크론바흐 α, 그리고 척도 점수의 평균과 표준편차입니다. 표 아래 주에는 역문항을 어떻게 뒤집었는지와 척도 점수를 어떻게 만들었는지가 적혀 있습니다. 문항 10개의 답을 평균한 것이 한 사람의 척도 점수입니다.
+**신뢰도와 척도 점수**의 표는 척도 하나가 한 행입니다. 열은 문항 수, 그 가운데 역문항 수, 크론바흐 $\alpha$, 그리고 척도 점수의 평균과 표준편차입니다. 표 아래 주에는 역문항을 어떻게 뒤집었는지와 척도 점수를 어떻게 만들었는지가 적혀 있습니다. 문항 10개의 답을 평균한 것이 한 사람의 척도 점수입니다.
 
-**요인분석**의 그림은 가로로 50문항, 세로로 요인 다섯 개를 놓은 열지도입니다. 칸이 진할수록 그 문항이 그 요인과 강하게 함께 움직인다는 뜻입니다. 진한 칸이 왼쪽 위에서 오른쪽 아래로 계단처럼 다섯 묶음을 이룹니다. 그림 아래 주에는 적재값의 범위와 다섯 요인이 설명한 분산의 비율이 적혀 있습니다.
+**요인분석**의 그림은 가로로 50문항, 세로로 요인 다섯 개를 놓은 **열지도**(heatmap)입니다. 열지도는 숫자의 크기를 색의 진하기로 나타낸 그림이어서, 칸이 진할수록 그 문항이 그 요인과 강하게 함께 움직인다는 뜻입니다. 진한 칸이 왼쪽 위에서 오른쪽 아래로 계단처럼 다섯 묶음을 이룹니다. 그림 아래 주에는 적재값의 범위와 다섯 요인이 설명한 분산의 비율이 적혀 있습니다.
 
-**해석**은 두 항목입니다. 크론바흐 α가 무엇을 나타내는지와 요인 적재값으로 무엇을 보는지입니다. **한계**는 세 줄입니다. 응답자가 어떤 사람들인지, 신뢰도가 높다는 것이 무엇까지 말해 주는지, 그리고 같은 사람이 한 번에 모든 문항에 답해서 생길 수 있는 문제입니다.
+**해석**은 두 항목입니다. 크론바흐 $\alpha$가 무엇을 나타내는지와 요인 적재값으로 무엇을 보는지입니다. **한계**는 세 줄입니다. 응답자가 어떤 사람들인지, 신뢰도가 높다는 것이 무엇까지 말해 주는지, 그리고 같은 사람이 한 번에 모든 문항에 답해서 생길 수 있는 문제입니다.
 
 ## 이 장의 진행 순서
 
 다음 네 절이 이 보고서를 한 부분씩 설명합니다.
 
 - **문항 여러 개로 개념 하나를** — 외향성처럼 보이지 않는 개념을 왜 문항 여러 개로 측정하는가. 척도 점수는 어떻게 만드는가. 역문항을 뒤집지 않으면 무슨 일이 생기는가. 표의 역문항 열과 주.
-- **함께 움직이는가** — 크론바흐 α는 무엇을 계산한 숫자인가. 문항이 많을수록 α가 왜 커지는가. 기준 0.7은 어디서 왔고 무엇을 말해 주지 않는가. 요약의 첫 줄과 셋째 줄, 표의 α 열, 해석의 첫 항목, 한계의 둘째 줄.
+- **함께 움직이는가** — 크론바흐 $\alpha$는 무엇을 계산한 숫자인가. 문항이 많을수록 $\alpha$가 왜 커지는가. 기준 0.7은 어디서 왔고 무엇을 말해 주지 않는가. 요약의 첫 줄과 셋째 줄, 표의 $\alpha$ 열, 해석의 첫 항목, 한계의 둘째 줄.
 - **저절로 다섯 묶음으로 나뉘나** — 요인분석은 무엇을 하는가. 적재값과 회전은 무엇인가. 보고서에서 만날 다른 이름들(확인적 요인분석, 구조방정식 모형). 요약의 둘째 줄, 그림, 해석의 둘째 항목.
 - **측정이 거칠면 관계가 약해진다** — 문항 하나로 측정한 변수를 회귀식에 넣으면 무슨 일이 생기는가. 같은 사람이 같은 설문에 답한 두 변수의 관계는 믿을 수 있는가. 한계의 셋째 줄, 그리고 이 장을 마치며.
 

diff --git a/survey-measurement/practice-prompt.md b/survey-measurement/practice-prompt.md
@@ -30,7 +30,7 @@
 
 보고서 파일을 함께 보여 줄 수 없는 자리에서는 구성을 직접 일러 줍니다. 아래 다섯 항목이 보고서의 다섯 부분과 하나씩 대응합니다.
 
-> 이 폴더의 [파일 이름]은 설문 응답 자료다. 한 행이 응답자 한 명이고, [척도와 문항]이다. 답은 [눈금]이다. 역문항은 [채점 키]다. 문항의 문장은 같은 폴더의 [코드북]에 있다. 역문항을 내가 준 채점 키대로 뒤집고(눈금의 가장 큰 값에 1을 더한 수에서 답을 뺀다), 척도마다 신뢰도와 탐색적 요인분석 결과를 정리한 1쪽 보고서를 만들어 줘. 구성: (1) 핵심 발견 요약 3줄(척도들의 크론바흐 α 범위와 흔히 쓰는 기준 0.7, 요인분석에서 문항이 척도별로 묶이는지, 이것이 말하지 않는 것 — 일관되게 답했다는 것과 맞게 측정했다는 것의 차이), (2) 표 — 척도마다 문항 수, 역문항 수, 크론바흐 α, 척도 점수(문항의 평균)의 평균과 표준편차, 표 주에 눈금의 뜻과 역문항을 뒤집은 방법, (3) 그림 하나 — 탐색적 요인분석(요인 수 = 척도의 수, 베리맥스 회전, 문항을 표준화)의 요인 적재값을 문항 × 요인의 열지도로, 문항은 척도별로 모아 늘어놓고 요인은 척도 순서에 맞춰, 그림 주에 자기 요인 적재값의 범위, 다른 요인 적재값 가운데 가장 큰 것과 그 문항, 요인들이 설명한 분산의 비율, (4) 해석 — 크론바흐 α의 뜻, 요인 적재값의 뜻과 그림에서 묶음이 보이는지, (5) 한계 — 응답자가 누구인지(모든 사람에게 같은 결과라고 말할 수 있는지), 신뢰도가 높다는 것은 맞게 측정한다는 증거가 아니라는 점, 같은 사람이 한 번에 답해 답하는 버릇이 문항끼리의 관계에 섞여 있을 수 있다는 점. 빠진 답이 있으면 어떻게 처리했는지 적어 줘.
+> 이 폴더의 [파일 이름]은 설문 응답 자료다. 한 행이 응답자 한 명이고, [척도와 문항]이다. 답은 [눈금]이다. 역문항은 [채점 키]다. 문항의 문장은 같은 폴더의 [코드북]에 있다. 역문항을 내가 준 채점 키대로 뒤집고(눈금의 가장 큰 값에 1을 더한 수에서 답을 뺀다), 척도마다 신뢰도와 탐색적 요인분석 결과를 정리한 1쪽 보고서를 만들어 줘. 구성: (1) 핵심 발견 요약 3줄(척도들의 크론바흐 α 범위와 흔히 쓰는 기준 0.7, 요인분석에서 문항이 척도별로 묶이는지, 이것이 말하지 않는 것 — 일관되게 답했다는 것과 맞게 측정했다는 것의 차이), (2) 표 — 척도마다 문항 수, 역문항 수, 크론바흐 α, 척도 점수(문항의 평균)의 평균과 표준편차, 표 주에 눈금의 뜻과 역문항을 뒤집은 방법, (3) 그림 하나 — 탐색적 요인분석(요인 수 = 척도의 수, 베리맥스 회전, 문항을 표준화)의 요인 적재값을 문항 × 요인의 열지도(heatmap)로, 문항은 척도별로 모아 늘어놓고 요인은 척도 순서에 맞춰, 그림 주에 자기 요인 적재값의 범위, 다른 요인 적재값 가운데 가장 큰 것과 그 문항, 요인들이 설명한 분산의 비율, (4) 해석 — 크론바흐 α의 뜻, 요인 적재값의 뜻과 그림에서 묶음이 보이는지, (5) 한계 — 응답자가 누구인지(모든 사람에게 같은 결과라고 말할 수 있는지), 신뢰도가 높다는 것은 맞게 측정한다는 증거가 아니라는 점, 같은 사람이 한 번에 답해 답하는 버릇이 문항끼리의 관계에 섞여 있을 수 있다는 점. 빠진 답이 있으면 어떻게 처리했는지 적어 줘.
 
 백업형은 길지만 하는 일은 하나입니다. 본보기 보고서에 들어 있던 것을 말로 옮겨 적은 것입니다. 그래서 가능하면 기본형을 쓰는 편이 낫습니다.
 
@@ -38,17 +38,17 @@
 
 보고서를 받은 뒤 한두 가지를 더 물어보면 이 장에서 배운 것을 그대로 써먹을 수 있습니다.
 
-- **뒤집기 전과 뒤**: "역문항을 뒤집지 않고 크론바흐 α를 계산하면 척도마다 어떻게 되는지, 뒤집은 뒤와 함께 표로 보여 줘." 채점 키대로 제대로 뒤집었는지 확인하는 질문이기도 합니다. 이 장의 자료라면 외향성 α가 뒤집기 전 −0.40, 뒤 0.89입니다(3절).
+- **뒤집기 전과 뒤**: "역문항을 뒤집지 않고 크론바흐 α를 계산하면 척도마다 어떻게 되는지, 뒤집은 뒤와 함께 표로 보여 줘." 채점 키대로 제대로 뒤집었는지 확인하는 질문이기도 합니다. 이 장의 자료라면 외향성 $\alpha$가 뒤집기 전 −0.40, 뒤 0.89입니다(3절).
 - **문항을 하나 빼면**: "척도마다 문항을 하나씩 빼고 α를 다시 계산해 줘. 빼면 α가 오르는 문항이 있으면 그 문장을 보여 줘." 이 장의 자료라면 신경성의 N4를 빼면 0.869에서 0.875로 오릅니다. 이 정도로 작은 차이라면 문항을 뺄 까닭이 없습니다(3절).
 - **요인 수 정하기**: "고유값을 큰 순서로 그린 그림을 보여 주고, 고유값 1을 넘는 요인 수와 그래프가 꺾이는 곳을 알려 줘." 이 장의 자료라면 고유값 1을 넘는 요인은 8개이고, 그래프는 다섯째 요인 뒤에서 꺾입니다. 두 기준이 다르면 요인마다 실린 문항을 읽어 보고 정합니다(4절).
 - **척도 점수로 회귀분석**: "[종속변수 척도]의 척도 점수를 [설명변수 척도]의 척도 점수로 회귀분석하고, 설명변수를 문항 하나로만 측정했을 때의 기울기와 비교해 줘." 이 장의 자료라면 친화성을 외향성으로 설명하는 기울기가 E1 한 문항이면 0.12, 10문항의 척도 점수면 0.26입니다. 측정이 거칠면 관계가 약하게 나옵니다(5절). 두 척도가 같은 설문에서 나왔다면 공통방법편향을 한계에 어떻게 적을지도 함께 물어봅니다.
 
 ## 받은 보고서 확인하기
 
-AI도 실수를 합니다. 받은 보고서의 숫자를 그대로 믿지 말고 확인합니다. 이 장의 자료를 그대로 썼다면 결과가 이 장의 보고서와 같아야 합니다. 50문항 모두 답한 사람은 19,718명이고, 크론바흐 α는 외향성 0.89, 신경성 0.87, 친화성 0.83, 성실성 0.81, 개방성 0.79입니다. 척도 점수의 평균은 외향성 3.01부터 개방성 3.91까지입니다. α와 평균은 계산 방법이 하나뿐이라 소수 둘째 자리까지 같아야 합니다. 요인 적재값은 쓴 패키지와 추정 방법에 따라 소수 둘째 자리에서 조금 다를 수 있지만, 모든 문항이 자기 성격의 요인에 가장 크게 실린다는 결과는 같아야 합니다.
+AI도 실수를 합니다. 받은 보고서의 숫자를 그대로 믿지 말고 확인합니다. 이 장의 자료를 그대로 썼다면 결과가 이 장의 보고서와 같아야 합니다. 50문항 모두 답한 사람은 19,718명이고, 크론바흐 $\alpha$는 외향성 0.89, 신경성 0.87, 친화성 0.83, 성실성 0.81, 개방성 0.79입니다. 척도 점수의 평균은 외향성 3.01부터 개방성 3.91까지입니다. $\alpha$와 평균은 계산 방법이 하나뿐이라 소수 둘째 자리까지 같아야 합니다. 요인 적재값은 쓴 패키지와 추정 방법에 따라 소수 둘째 자리에서 조금 다를 수 있지만, 모든 문항이 자기 성격의 요인에 가장 크게 실린다는 결과는 같아야 합니다.
 
-숫자가 다르다면 먼저 역문항을 봅니다. 표의 역문항 수가 외향성 5, 신경성 2, 친화성 4, 성실성 4, 개방성 3인지, α가 0.7보다 훨씬 낮거나 음수인 척도가 없는지 확인합니다. 뒤집지 않았거나 다른 문항을 뒤집으면 α가 크게 떨어집니다. 그다음은 빠진 답입니다. 응답자 수가 19,719명이면 답하지 않은 문항의 0이 평균에 들어갔을 수 있습니다.
+숫자가 다르다면 먼저 역문항을 봅니다. 표의 역문항 수가 외향성 5, 신경성 2, 친화성 4, 성실성 4, 개방성 3인지, $\alpha$가 0.7보다 훨씬 낮거나 음수인 척도가 없는지 확인합니다. 뒤집지 않았거나 다른 문항을 뒤집으면 $\alpha$가 크게 떨어집니다. 그다음은 빠진 답입니다. 응답자 수가 19,719명이면 답하지 않은 문항의 0이 평균에 들어갔을 수 있습니다.
 
-숫자 말고도 두 가지를 봅니다. 하나는 한계에 "신뢰도가 높다는 것은 맞게 측정한다는 증거가 아니다"라는 뜻의 문장이 있는지입니다. 크론바흐 α는 문항들이 함께 움직인다는 것까지만 말해 줍니다. 다른 하나는 문항을 가리킬 때 문장을 함께 적었는지입니다. C4 같은 문항 번호만으로는 무엇을 묻는 문항인지 알 수 없습니다.
+숫자 말고도 두 가지를 봅니다. 하나는 한계에 "신뢰도가 높다는 것은 맞게 측정한다는 증거가 아니다"라는 뜻의 문장이 있는지입니다. 크론바흐 $\alpha$는 문항들이 함께 움직인다는 것까지만 말해 줍니다. 다른 하나는 문항을 가리킬 때 문장을 함께 적었는지입니다. C4 같은 문항 번호만으로는 무엇을 묻는 문항인지 알 수 없습니다.
 
-가장 확실한 방법은 직접 해 보기 2의 파이썬 노트북을 자기 자료로 실행해 보는 것입니다. 1절의 파일 이름과 척도, 2절의 채점 키를 자기 자료에 맞게 바꾸면 척도 점수와 α, 요인분석을 같은 방식으로 계산할 수 있습니다. 노트북에는 척도마다 문항이 10개라고 보고 쓴 곳과 외향성·친화성을 직접 적은 회귀분석(5절)이 있어서, 자료에 따라 몇 곳을 더 고쳐야 합니다. 어디를 고칠지는 노트북 끝의 정리에 적어 두었습니다.
+가장 확실한 방법은 직접 해 보기 2의 파이썬 노트북을 자기 자료로 실행해 보는 것입니다. 1절의 파일 이름과 척도, 2절의 채점 키를 자기 자료에 맞게 바꾸면 척도 점수와 $\alpha$, 요인분석을 같은 방식으로 계산할 수 있습니다. 노트북에는 척도마다 문항이 10개라고 보고 쓴 곳과 외향성·친화성을 직접 적은 회귀분석(5절)이 있어서, 자료에 따라 몇 곳을 더 고쳐야 합니다. 어디를 고칠지는 노트북 끝의 정리에 적어 두었습니다.

diff --git a/survey-measurement/section-m5.md b/survey-measurement/section-m5.md
@@ -30,11 +30,11 @@
 
 ## 신뢰도가 높을수록 관계가 제 크기에 가까워진다
 
-앞 절들에서 본 크론바흐 α가 여기서 다시 등장합니다. 측정이 거친 정도가 곧 신뢰도가 낮은 정도이기 때문입니다. 표 5-1은 외향성을 문항 몇 개로 측정하느냐에 따라 α와 기울기가 어떻게 달라지는지를 보인 것입니다.
+앞 절들에서 본 크론바흐 $\alpha$가 여기서 다시 등장합니다. 측정이 거친 정도가 곧 신뢰도가 낮은 정도이기 때문입니다. 표 5-1은 외향성을 문항 몇 개로 측정하느냐에 따라 $\alpha$와 기울기가 어떻게 달라지는지를 보인 것입니다.
 
 **표 5-1.** 외향성을 측정한 문항 수와 친화성을 설명하는 기울기
 
-| 외향성을 측정한 문항 수 | 크론바흐 α | 기울기 |
+| 외향성을 측정한 문항 수 | 크론바흐 $\alpha$ | 기울기 |
 |---|---|---|
 | 1 | (계산할 수 없음) | 0.13 |
 | 2 | 0.61 | 0.18 |
@@ -44,13 +44,13 @@
 
 주: 50문항 모두 답한 19,718명. 종속변수는 친화성 척도 점수(10문항 평균), 설명변수는 외향성 문항 그 수만큼의 평균. 2 ~ 5문항 행은 그림 3-2처럼 외향성 10문항 가운데 그 수만큼 무작위로 300번 골라 평균했고, 1문항 행은 열 문항 하나하나로 측정한 기울기의 평균이다(그래서 E1 하나일 때의 0.12와 조금 다르다).
 
-표에서 보듯이 α가 0.61에서 0.89로 올라가는 동안 기울기도 0.18에서 0.26으로 커집니다. 문항이 많아져 운이 상쇄될수록 외향성 점수가 실제 외향성에 가까워지고, 그만큼 친화성과의 관계가 덜 약해집니다. 거꾸로 말하면, α가 0.6인 척도로 측정한 변수를 회귀식에 넣으면 그 변수의 계수는 실제보다 꽤 작게 나올 수 있습니다. 신뢰도는 측정을 믿을 수 있는지의 문제일 뿐 아니라, 그 척도로 얻은 회귀 계수가 얼마나 작아져 있는지의 문제이기도 합니다.
+표에서 보듯이 $\alpha$가 0.61에서 0.89로 올라가는 동안 기울기도 0.18에서 0.26으로 커집니다. 문항이 많아져 운이 상쇄될수록 외향성 점수가 실제 외향성에 가까워지고, 그만큼 친화성과의 관계가 덜 약해집니다. 거꾸로 말하면, $\alpha$가 0.6인 척도로 측정한 변수를 회귀식에 넣으면 그 변수의 계수는 실제보다 꽤 작게 나올 수 있습니다. 신뢰도는 측정을 믿을 수 있는지의 문제일 뿐 아니라, 그 척도로 얻은 회귀 계수가 얼마나 작아져 있는지의 문제이기도 합니다.
 
 이것은 학생들이 하는 설문 연구에서 특히 기억해 둘 만합니다. 설문지가 길어지는 것이 부담스러워 개념 하나를 문항 하나나 둘로 묻는 경우가 많기 때문입니다. 그렇게 측정한 변수가 회귀분석에서 "유의하지 않다"고 나왔다면, 관계가 없어서일 수도 있지만 측정이 거칠어 관계가 작게 보였을 수도 있습니다. 4절에서 이름만 본 구조방정식 모형이 설문 연구에서 널리 쓰이는 까닭 가운데 하나도 여기에 있습니다. 문항들 뒤의 요인으로 개념을 측정하므로, 문항마다의 몫 때문에 관계가 약해지는 것을 어느 정도 바로잡을 수 있습니다.
 
 외향성과 친화성의 관계가 어느 쪽이 원인인지, 아니면 둘 다 다른 무엇의 결과인지는 이 자료로 가릴 수 없습니다. 여기서 본 것은 관계의 크기가 측정에 따라 달라진다는 것뿐입니다.
 
-💡 **팁:** 설문으로 만든 척도를 회귀분석에 넣을 때는 AI에게 척도마다의 크론바흐 α를 회귀 결과와 함께 보여 달라고 요청하세요. "회귀식에 들어간 척도 변수마다 문항 수와 크론바흐 알파를 표로 함께 보여 주고, 알파가 0.7보다 낮은 변수는 측정 오차 때문에 계수가 작게 나왔을 수 있다는 점을 한계에 적어 줘." 문항 하나로 측정한 변수가 있다면 그 사실도 밝히게 합니다.
+💡 **팁:** 설문으로 만든 척도를 회귀분석에 넣을 때는 AI에게 척도마다의 크론바흐 $\alpha$를 회귀 결과와 함께 보여 달라고 요청하세요. "회귀식에 들어간 척도 변수마다 문항 수와 크론바흐 알파를 표로 함께 보여 주고, 알파가 0.7보다 낮은 변수는 측정 오차 때문에 계수가 작게 나왔을 수 있다는 점을 한계에 적어 줘." 문항 하나로 측정한 변수가 있다면 그 사실도 밝히게 합니다.
 
 ## 같은 사람이 같은 설문에 답하면 — 공통방법편향
 
@@ -77,12 +77,12 @@
 
 ## 이 장을 마치며
 
-이제 이 장 첫머리의 보고서를 처음부터 끝까지 이해할 수 있습니다. 표 아래 주의 "역문항은 6에서 답을 빼서 뒤집은 뒤"와 "척도 점수는 문항 10개의 평균"은 보이지 않는 개념을 측정하는 첫 단계였고, 뒤집지 않으면 모두가 보통 사람이 된다는 것을 보았습니다(2절). 요약 첫 줄의 크론바흐 α 0.79 ~ 0.89는 문항들이 함께 움직이는 정도와 문항 수가 함께 만든 숫자이고, 기준 0.7은 관행일 뿐이며, 셋째 줄의 "일관되게 답했다"와 "맞게 측정했다"는 신뢰도와 타당도의 차이였습니다(3절). 요약 둘째 줄과 그림은 어느 문항이 어느 성격인지 알려 주지 않았는데도 함께 움직이는 문항끼리 다섯 묶음으로 나뉘었다는 것이고, 회전은 그 결과를 보기 좋은 각도로 돌린 것이었습니다(4절). 한계의 셋째 줄은 같은 사람이 같은 설문에 답할 때의 버릇을 걱정한 것이었습니다(5절).
+이제 이 장 첫머리의 보고서를 처음부터 끝까지 이해할 수 있습니다. 표 아래 주의 "역문항은 6에서 답을 빼서 뒤집은 뒤"와 "척도 점수는 문항 10개의 평균"은 보이지 않는 개념을 측정하는 첫 단계였고, 뒤집지 않으면 모두가 보통 사람이 된다는 것을 보았습니다(2절). 요약 첫 줄의 크론바흐 $\alpha$ 0.79 ~ 0.89는 문항들이 함께 움직이는 정도와 문항 수가 함께 만든 숫자이고, 기준 0.7은 관행일 뿐이며, 셋째 줄의 "일관되게 답했다"와 "맞게 측정했다"는 신뢰도와 타당도의 차이였습니다(3절). 요약 둘째 줄과 그림은 어느 문항이 어느 성격인지 알려 주지 않았는데도 함께 움직이는 문항끼리 다섯 묶음으로 나뉘었다는 것이고, 회전은 그 결과를 보기 좋은 각도로 돌린 것이었습니다(4절). 한계의 셋째 줄은 같은 사람이 같은 설문에 답할 때의 버릇을 걱정한 것이었습니다(5절).
 
-여러분이 직접 설문을 하고 분석한다면, 이 장의 순서가 그대로 분석의 순서입니다. 채점 키대로 역문항을 뒤집고, 척도 점수를 만들고, 크론바흐 α로 문항들이 함께 움직이는지 확인하고, 요인분석으로 문항이 생각한 대로 묶이는지 보고, 그다음에야 척도 점수를 회귀식에 넣습니다. 이 계산은 모두 AI가 금방 해 줍니다. 그러나 어느 문항이 역문항인지는 자료의 숫자에 적혀 있지 않고, 요인이 몇 개인지와 요인의 이름은 문항을 읽어 본 사람이 정하며, 두 척도의 관계가 답하는 버릇에 부풀었을지는 설문을 어떻게 했는지 아는 사람만 따질 수 있습니다.
+여러분이 직접 설문을 하고 분석한다면, 이 장의 순서가 그대로 분석의 순서입니다. 채점 키대로 역문항을 뒤집고, 척도 점수를 만들고, 크론바흐 $\alpha$로 문항들이 함께 움직이는지 확인하고, 요인분석으로 문항이 생각한 대로 묶이는지 보고, 그다음에야 척도 점수를 회귀식에 넣습니다. 이 계산은 모두 AI가 금방 해 줍니다. 그러나 어느 문항이 역문항인지는 자료의 숫자에 적혀 있지 않고, 요인이 몇 개인지와 요인의 이름은 문항을 읽어 본 사람이 정하며, 두 척도의 관계가 답하는 버릇에 부풀었을지는 설문을 어떻게 했는지 아는 사람만 따질 수 있습니다.
 
 측정은 회귀분석의 앞 단계라서 결과표에는 잘 드러나지 않습니다. 하지만 측정이 거칠면 관계는 약하게 보이고, 같은 버릇이 섞이면 강하게 보입니다. 계수 하나를 믿기 전에 그 변수를 어떻게 측정했는지부터 보는 습관이 이 장이 남기려는 것입니다.
 
-> AI의 보고서가 설문 척도를 쓰면, 역문항을 뒤집었는지와 크론바흐 α부터 본다.
+> AI의 보고서가 설문 척도를 쓰면, 역문항을 뒤집었는지와 크론바흐 $\alpha$부터 본다.
 
 직접 해 보기에서는 이 장의 분석을 파이썬 코드로 따라 해 보고, 같은 방법을 다른 척도에 적용해 봅니다.

diff --git a/survey-measurement/section-m4.md b/survey-measurement/section-m4.md
@@ -4,7 +4,7 @@
 
 > 50문항으로 요인분석을 하면 **모든 문항이 자기 성격의 요인에 가장 크게 실려, 문항이 성격별로 다섯 묶음으로 나뉜다**.
 
-앞 절의 크론바흐 α는 "외향성 문항은 E1 ~ E10"처럼 묶음을 미리 정해 놓고, 그 묶음 안의 문항들이 함께 움직이는지를 확인했습니다. 요인분석은 거꾸로 묻습니다. 어느 문항이 어느 성격인지 알려 주지 않고 50문항을 한꺼번에 넣었을 때, 자료가 스스로 문항을 몇 개의 묶음으로 나누는가 하는 물음입니다. 미리 답부터 말하면, **요인분석은 함께 움직이는 문항끼리 묶어 그 뒤에 있는 보이지 않는 공통 원인(요인)을 찾는 방법이고, 이 자료에서는 50문항이 검사를 만든 사람이 정한 그대로 다섯 묶음으로 나뉘었습니다.** 이 절에서는 요인과 적재값이 무엇인지 먼저 보고, <a class="report-fig-link" href="../_static/report-figure-survey-measurement.png" target="_blank" rel="noopener">보고서의 그림</a>을 살펴본 뒤, 요인을 몇 개로 할지 정하는 법과 회전이 무엇인지를 봅니다.
+앞 절의 크론바흐 $\alpha$는 "외향성 문항은 E1 ~ E10"처럼 묶음을 미리 정해 놓고, 그 묶음 안의 문항들이 함께 움직이는지를 확인했습니다. 요인분석은 거꾸로 묻습니다. 어느 문항이 어느 성격인지 알려 주지 않고 50문항을 한꺼번에 넣었을 때, 자료가 스스로 문항을 몇 개의 묶음으로 나누는가 하는 물음입니다. 미리 답부터 말하면, **요인분석은 함께 움직이는 문항끼리 묶어 그 뒤에 있는 보이지 않는 공통 원인(요인)을 찾는 방법이고, 이 자료에서는 50문항이 검사를 만든 사람이 정한 그대로 다섯 묶음으로 나뉘었습니다.** 이 절에서는 요인과 적재값이 무엇인지 먼저 보고, <a class="report-fig-link" href="../_static/report-figure-survey-measurement.png" target="_blank" rel="noopener">보고서의 그림</a>을 살펴본 뒤, 요인을 몇 개로 할지 정하는 법과 회전이 무엇인지를 봅니다.
 
 ## 과목 표시를 지운 시험지 — 함께 맞히는 문제끼리 묶기
 
@@ -51,7 +51,7 @@
 
 주: 50문항 모두 답한 19,718명, 탐색적 요인분석(5요인, 베리맥스 회전). 역문항은 뒤집은 답으로 계산했다. 굵은 숫자가 자기 성격의 요인이다.
 
-표에서 보듯이 E7, N8, A4는 자기 요인에 0.75 이상으로 크게 실리고 다른 요인에는 0에 가깝습니다. 한 가지만 측정하는, 깨끗한 문항입니다. N4와 O9는 자기 요인에 실리기는 하지만 0.31과 0.33으로 약합니다. <a class="report-fig-link" href="../_static/report-figure-survey-measurement.png" target="_blank" rel="noopener">보고서의 그림</a> 주에 적힌 자기 요인 적재값의 범위 0.31 ~ 0.79에서 가장 낮은 값이 N4입니다. 흔히 적재값 0.4를 문항이 요인에 제대로 실렸는지 가르는 기준으로 쓰는데, 크론바흐 α의 0.7처럼 관행으로 쓰이는 숫자입니다. 이 자료에서 0.4에 못 미치는 문항은 다섯 개입니다.
+표에서 보듯이 E7, N8, A4는 자기 요인에 0.75 이상으로 크게 실리고 다른 요인에는 0에 가깝습니다. 한 가지만 측정하는, 깨끗한 문항입니다. N4와 O9는 자기 요인에 실리기는 하지만 0.31과 0.33으로 약합니다. <a class="report-fig-link" href="../_static/report-figure-survey-measurement.png" target="_blank" rel="noopener">보고서의 그림</a> 주에 적힌 자기 요인 적재값의 범위 0.31 ~ 0.79에서 가장 낮은 값이 N4입니다. 흔히 적재값 0.4를 문항이 요인에 제대로 실렸는지 가르는 기준으로 쓰는데, 크론바흐 $\alpha$의 0.7처럼 관행으로 쓰이는 숫자입니다. 이 자료에서 0.4에 못 미치는 문항은 다섯 개입니다.
 
 C4("나는 일을 엉망으로 만든다")는 다른 모습을 보입니다. 자기 요인인 요인 4(성실성)에 0.55로 실리면서, 요인 2(신경성)에도 −0.37로 꽤 실립니다. 일을 엉망으로 만든다고 답하는 사람이 성실성이 낮은 쪽으로도, 신경성이 높은 쪽으로도 기운다는 뜻입니다. 이처럼 한 문항이 두 요인에 함께 실리는 것을 **교차 적재**(cross-loading)라고 부릅니다. <a class="report-fig-link" href="../_static/report-figure-survey-measurement.png" target="_blank" rel="noopener">보고서의 그림</a> 주에 "다른 요인 적재값(절댓값)은 가장 큰 것이 0.37"이라고 적힌 것이 이 문항입니다. 교차 적재가 큰 문항은 두 가지를 섞어 측정하므로, 척도를 새로 만들 때는 빼는 경우가 많습니다.
 
@@ -96,8 +96,8 @@ C4("나는 일을 엉망으로 만든다")는 다른 모습을 보입니다. 자
 설문 연구의 보고서에는 이 장의 보고서에 없는 이름들도 자주 나옵니다. 모두 이 절의 생각 위에 있으므로, 이름과 자리만 알아 두면 보고서를 이해할 수 있습니다.
 
 - **KMO**(Kaiser-Meyer-Olkin)와 **바틀렛 검정**(Bartlett's test): 요인분석을 하기 전에, 문항들이 요인분석을 할 만큼 서로 함께 움직이는지를 점검하는 숫자입니다. 문항들이 서로 거의 관계없이 따로 움직이면 묶을 것이 없기 때문입니다. KMO는 0과 1 사이이고 클수록 요인분석에 알맞다는 뜻이며, 바틀렛 검정은 "문항들이 서로 아무 관계도 없다"는 가설을 검정해 $p$값이 작으면 요인분석을 해 볼 만하다는 뜻입니다.
-- **확인적 요인분석**(confirmatory factor analysis): 탐색적 요인분석이 묶음을 자료에서 찾는다면, 확인적 요인분석은 "E1 ~ E10은 외향성, N1 ~ N10은 신경성"처럼 묶음을 미리 정해 놓고 자료가 그 묶음과 잘 맞는지 확인합니다. 앞 절의 크론바흐 α와 같은 방향의 물음을 더 엄밀하게 묻는 셈입니다. 결과에는 묶음이 자료와 얼마나 잘 맞는지를 나타내는 적합도 지수(CFI, TLI, RMSEA 같은 이름)가 붙습니다.
-- **구조방정식 모형**(structural equation model, SEM): 확인적 요인분석으로 구성개념을 측정하고, 그 구성개념끼리의 관계(직무 만족이 이직 의도에 미치는 영향 같은)를 회귀식처럼 한꺼번에 추정하는 모형입니다. 경영학 설문 연구에서 가장 많이 쓰이는 모형이고, 그 변형인 PLS-SEM도 자주 보입니다. 측정 부분의 결과에는 이 장에서 본 적재값과 신뢰도가 그대로 나오고, 숫자 둘이 함께 실리는 경우가 많습니다. 개념 신뢰도(CR)는 크론바흐 α처럼 문항들이 일관되게 측정하는 정도를 나타내고, 평균분산추출(AVE)은 문항들의 답이 흩어진 정도 가운데 그 구성개념이 평균으로 얼마를 설명하는지를 나타냅니다.
+- **확인적 요인분석**(confirmatory factor analysis): 탐색적 요인분석이 묶음을 자료에서 찾는다면, 확인적 요인분석은 "E1 ~ E10은 외향성, N1 ~ N10은 신경성"처럼 묶음을 미리 정해 놓고 자료가 그 묶음과 잘 맞는지 확인합니다. 앞 절의 크론바흐 $\alpha$와 같은 방향의 물음을 더 엄밀하게 묻는 셈입니다. 결과에는 묶음이 자료와 얼마나 잘 맞는지를 나타내는 적합도 지수(CFI, TLI, RMSEA 같은 이름)가 붙습니다.
+- **구조방정식 모형**(structural equation model, SEM): 확인적 요인분석으로 구성개념을 측정하고, 그 구성개념끼리의 관계(직무 만족이 이직 의도에 미치는 영향 같은)를 회귀식처럼 한꺼번에 추정하는 모형입니다. 경영학 설문 연구에서 가장 많이 쓰이는 모형이고, 그 변형인 PLS-SEM도 자주 보입니다. 측정 부분의 결과에는 이 장에서 본 적재값과 신뢰도가 그대로 나오고, 숫자 둘이 함께 실리는 경우가 많습니다. 개념 신뢰도(CR)는 크론바흐 $\alpha$처럼 문항들이 일관되게 측정하는 정도를 나타내고, 평균분산추출(AVE)은 문항들의 답이 흩어진 정도 가운데 그 구성개념이 평균으로 얼마를 설명하는지를 나타냅니다.
 
 이 책은 이 모형들을 직접 다루지 않습니다. 보고서에서 만나면, 측정 부분은 이 장의 적재값과 신뢰도로, 구성개념끼리의 관계는 회귀분석의 계수로 해석하면 됩니다.
 

diff --git a/survey-measurement/report-survey-measurement.md b/survey-measurement/report-survey-measurement.md
@@ -4,13 +4,13 @@
 
 ## 요약
 
-- 다섯 개의 성격 척도의 **신뢰도(크론바흐 α)는 0.79 ~ 0.89로, 흔히 쓰는 기준 0.7을 모두 넘는다**.
+- 다섯 개의 성격 척도의 **신뢰도(크론바흐 $\alpha$)는 0.79 ~ 0.89로, 흔히 쓰는 기준 0.7을 모두 넘는다**.
 - 50문항으로 요인분석을 하면 **모든 문항이 자기 성격의 요인에 가장 크게 실려, 문항이 성격별로 다섯 묶음으로 나뉜다**.
 - 두 결과는 응답자들이 같은 성격을 묻는 문항들에 일관되게 답했다는 뜻이다. 척도가 실제 성격을 맞게 측정하는지는 이 분석으로 알 수 없다.
 
 ## 신뢰도와 척도 점수
 
-| 척도 | 문항 수 | 역문항 수 | 크론바흐 α | 척도 점수 평균 | 표준편차 |
+| 척도 | 문항 수 | 역문항 수 | 크론바흐 $\alpha$ | 척도 점수 평균 | 표준편차 |
 |---|---|---|---|---|---|
 | 외향성 | 10 | 5 | 0.89 | 3.01 | 0.92 |
 | 신경성 | 10 | 2 | 0.87 | 3.10 | 0.86 |
@@ -30,7 +30,7 @@
 
 ## 해석
 
-- **크론바흐 α** — 같은 척도의 문항끼리 함께 움직일수록 1에 가까워진다. 외향성 0.89는 외향성 문항 하나에 외향적으로 답한 사람이 다른 외향성 문항에도 대개 외향적으로 답했다는 뜻이다(역문항은 뒤집은 답으로).
+- **크론바흐 $\alpha$** — 같은 척도의 문항끼리 함께 움직일수록 1에 가까워진다. 외향성 0.89는 외향성 문항 하나에 외향적으로 답한 사람이 다른 외향성 문항에도 대개 외향적으로 답했다는 뜻이다(역문항은 뒤집은 답으로).
 - **요인 적재값** — 문항이 어느 요인과 함께 움직이는지를 보여 준다. 그림에서 진한 칸이 대각선 위에 다섯 묶음으로 모여 있다. 요인 수만 다섯으로 정해 주고 문항이 어느 성격인지는 알려 주지 않았는데, 자료가 문항을 성격별로 묶었다.
 
 ## 한계

diff --git a/survey-measurement/index.md b/survey-measurement/index.md
@@ -14,7 +14,7 @@ Open Psychometrics Project가 공개한 성격 검사 원자료(BIG5.zip — IPI
 
 - 1\. 보고서 — 성격 검사 50문항은 다섯 성격을 일관되게 측정하나 (준비 중)
 - 2\. 문항 여러 개로 개념 하나를 — 척도와 역문항 (준비 중)
-- 3\. 함께 움직이는가 — 크론바흐 α와 문항 수 (준비 중)
+- 3\. 함께 움직이는가 — 크론바흐 $\alpha$와 문항 수 (준비 중)
 - 4\. 저절로 다섯 묶음으로 나뉘나 — 요인분석 (준비 중)
 - 5\. 측정이 거칠면 관계가 약해진다 — 감쇠와 설문의 함정 (준비 중)
 - 직접 해 보기(프롬프트와 파이썬 노트북) (준비 중)
